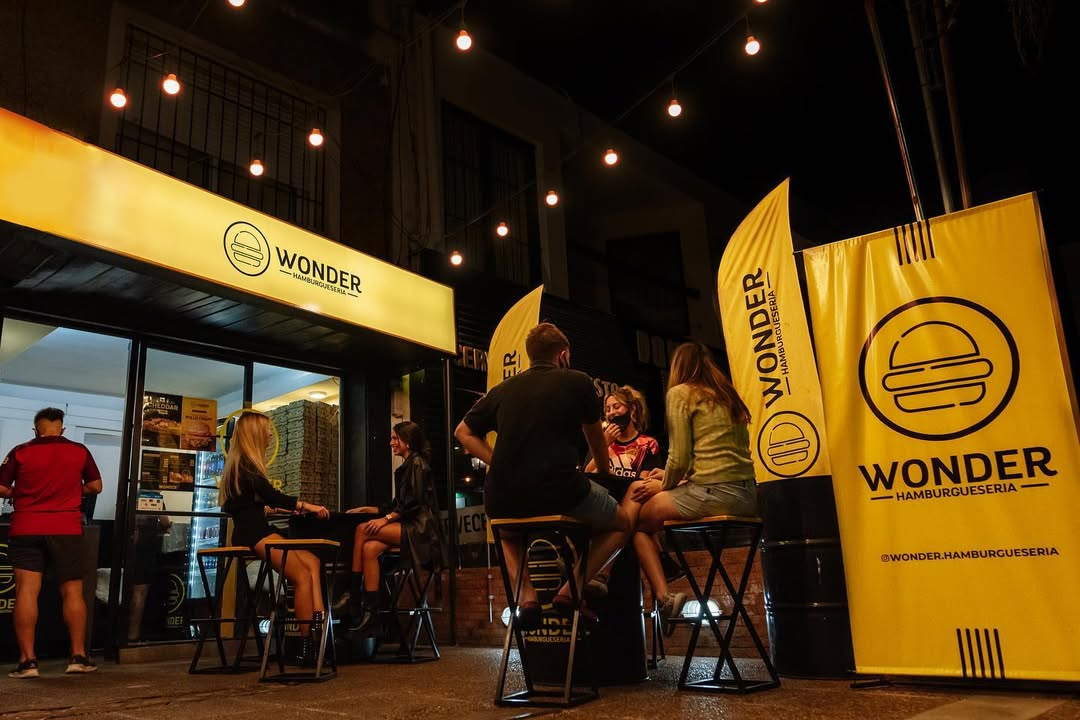
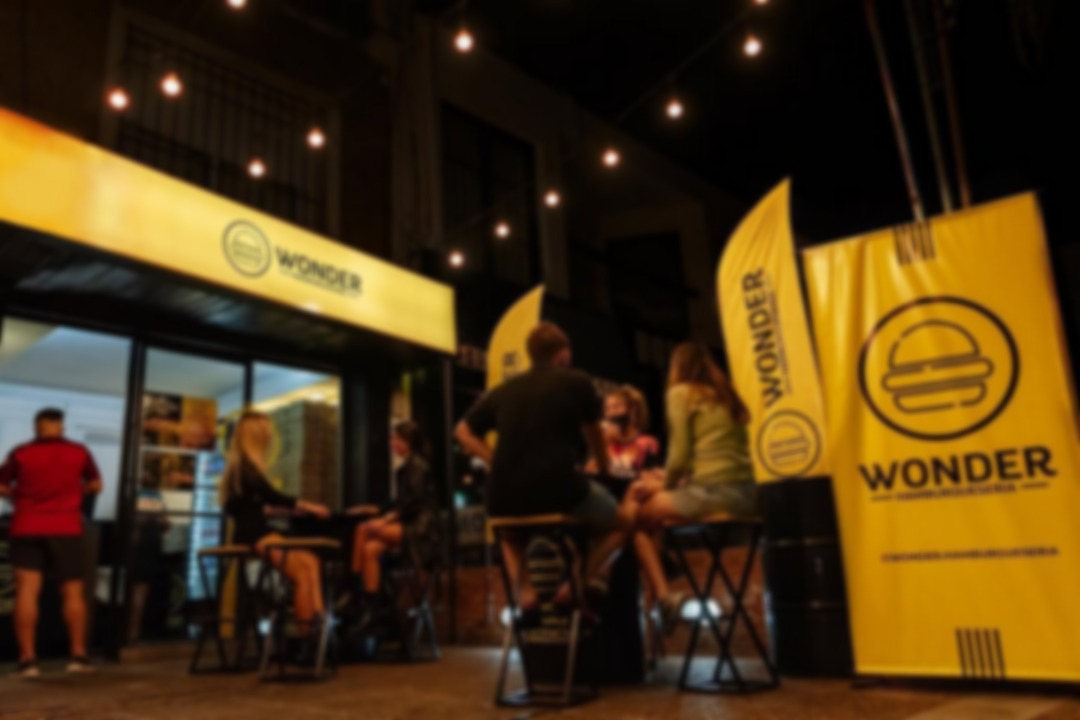
mejoras img

diff --git a/index.html b/index.html
@@ -146,20 +146,19 @@
         </div>
     </section>
     <!-- Nosotros -->
-    <section class="sobre-nosotros" id="nosotros">
+    <section class="sobre-nosotros" id="nosotros" style="background-image: url('./images/local.jpg'); background-size: cover; background-position: center; padding: 60px 0; color: white;">
         <div class="container">
-            <div class="nosotros-background"></div>
-                <div class="row align-items-center">
-                    <div class="col-md-6">
-                        <h2 class="mb-4 animate__animated animate__fadeInUp">Sobre Nosotros</h2>
-                        <p class="lead">Un xx de febrero de xxxx, decidimos darle vida a Wonder.</p>
-                        <p>La idea surge ante la necesidad de comer una buena hamburguesa...</p>
-                        <p>Lorem ipsum dolor sit amet consectetur adipisicing elit. Earum est 
-                            impedit doloremque nobis incidunt voluptate commodi, magni aperiam 
-                            in perspiciatis sit eius, qui ducimus reprehenderit hic dolorem 
-                            voluptatibus autem laborum..</p>
-                        <p>Como dice nuestro lema, en Wonder hacemos <strong>HAMBURGUESAS DE VERDAD</strong></p>
-                    </div>
+            <div class="row align-items-center">
+                <div class="col-md-6">
+                    <h2 class="mb-4 animate__animated animate__fadeInUp">Sobre Nosotros</h2>
+                    <p class="lead">Un xx de febrero de xxxx, decidimos darle vida a Wonder.</p>
+                    <p>La idea surge ante la necesidad de comer una buena hamburguesa...</p>
+                    <p>Lorem ipsum dolor sit amet consectetur adipisicing elit. Earum est 
+                        impedit doloremque nobis incidunt voluptate commodi, magni aperiam 
+                        in perspiciatis sit eius, qui ducimus reprehenderit hic dolorem 
+                        voluptatibus autem laborum..</p>
+                    <p>Como dice nuestro lema, en Wonder hacemos <strong>HAMBURGUESAS DE VERDAD</strong></p>
+                </div>
                 <div class="col-md-6">
                     <!-- Puedes agregar una imagen aquí si lo deseas -->
                 </div>

diff --git a/css/styles.css b/css/styles.css
@@ -175,19 +175,6 @@ header a:hover {
     color: white; /* Cambiar el color del texto principal */
 }
 
-.nosotros-background {
-    position: absolute;
-    top: 0;
-    left: 0;
-    right: 0;
-    bottom: 0;
-    background-image: url('../images/local.jpg');
-    background-size: cover;
-    background-position: center;
-    background-repeat: no-repeat;
-    filter: blur(3px); /* Aplica filtro gris y desenfoque */
-    z-index: -1; /* Asegura que la imagen no cubra el contenido */
-}
 
 /* Cambiar la fuente y el color del título */
 .sobre-nosotros h2 {
